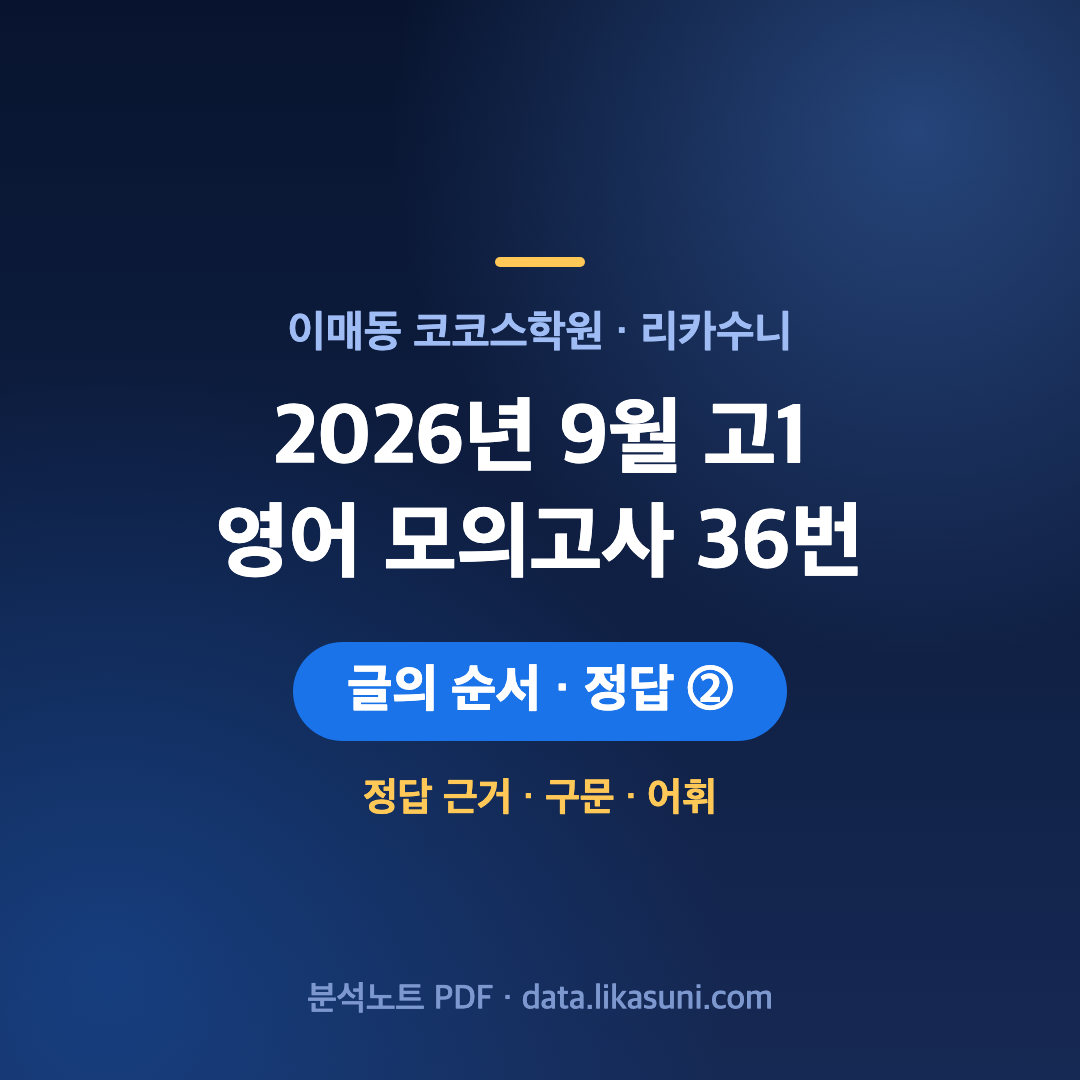
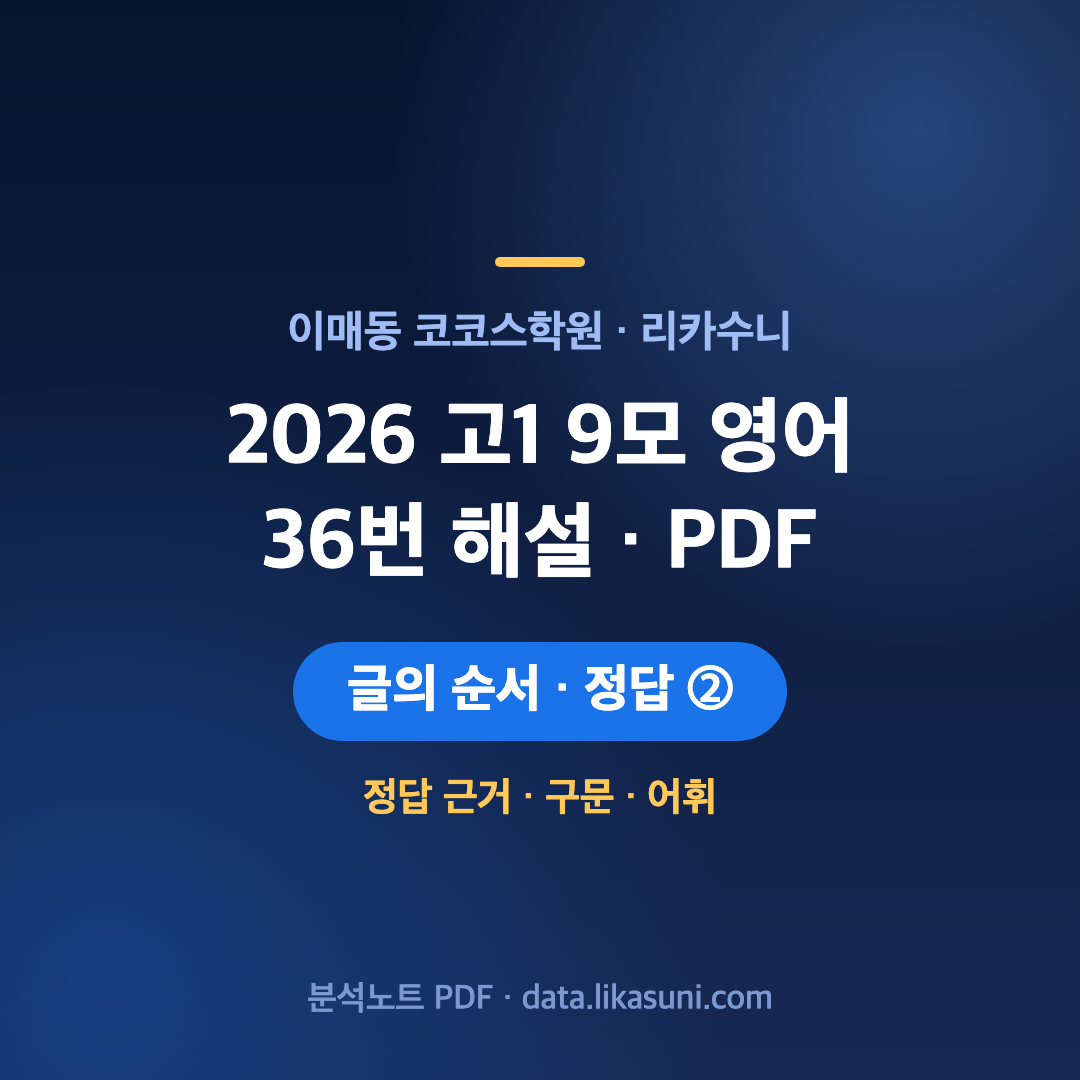
네이버 글 제목·구성: 유입 검색어(2026 고1 9모 영어 N번 해설 pdf) 꼴로, 9월 고1 36·38번 글 고침

Changed region(s): [[0.1833, 0.3667, 0.7944, 0.55]]

diff --git a/_tools/naver_posts/2026-11-22-moe-g1-2026-09-36.html b/_tools/naver_posts/2026-11-22-moe-g1-2026-09-36.html
@@ -1,12 +1,14 @@
-<!doctype html><html lang="ko"><head><meta charset="utf-8"><title>2026년 9월 고1 영어 모의고사 36번 해설 – 글의 순서 정답 ② 근거·구문·어휘 정리</title>
+<!doctype html><html lang="ko"><head><meta charset="utf-8"><title>2026 고1 9모 영어 36번 해설 pdf – 2026년 9월 고1 영어 모의고사 글의 순서 정답 ②</title>
 <style>body{font-family:'Apple SD Gothic Neo',sans-serif;max-width:720px;margin:30px auto;padding:0 16px;font-size:16px;color:#222}
 .guide{background:#fff8e1;border:1px solid #f0c36d;padding:12px 14px;border-radius:8px;font-size:14px;margin-bottom:20px}</style></head><body>
 <div class="guide">📋 <b>네이버 붙여 넣기:</b> 아래 노란 상자 밑부터 끝까지 마우스로 드래그해 복사(⌘C) → 네이버 글쓰기 본문에 붙여 넣기(⌘V).<br>
-제목: <b>2026년 9월 고1 영어 모의고사 36번 해설 – 글의 순서 정답 ② 근거·구문·어휘 정리</b><br>태그: #2026년9월고1모의고사 #9월고1영어 #고1영어모의고사 #모의고사36번 #글의순서 #영어분석노트 #이매동영어학원 #코코스학원 #리카수니</div>
+제목: <b>2026 고1 9모 영어 36번 해설 pdf – 2026년 9월 고1 영어 모의고사 글의 순서 정답 ②</b><br>태그: #2026고19모영어 #고19모영어 #9모영어pdf #2026고19모영어해설 #2026년9월고1모의고사 #9월고1영어 #고1영어모의고사36번 #모의고사36번 #글의순서 #notAbutB #영어분석노트 #이매동영어학원 #코코스학원 #리카수니</div>
 <p style="text-align:center"><img src="thumb-moe-g1-2026-09-36.png" style="max-width:100%;border-radius:12px"></p>
+<p style="margin:4px 0;line-height:1.8">2026 고1 9모 영어 36번 문제 해설이에요. (2026년 9월 고1 전국연합학력평가 영어 · 글의 순서 · 정답 ②)</p>
+<p style="margin:4px 0;line-height:1.8">정답 근거, 오답 거르는 법, 구문(not A but B · It is ~ that 강조), 어휘를 정리했고 분석노트 pdf 받는 곳은 글 아래에 있어요.</p>
+<p>&nbsp;</p>
 <p style="margin:4px 0;line-height:1.8">안녕하세요, 이매동 코코스학원 리카수니 원장입니다.</p>
-<p style="margin:4px 0;line-height:1.8">학생 요청으로 2026년 9월 고1 영어 모의고사 36번 분석노트를 만들었어요.</p>
-<p style="margin:4px 0;line-height:1.8">시험지를 옆에 펴 놓고 보시면 더 잘 보여요.</p>
+<p style="margin:4px 0;line-height:1.8">학생 요청으로 만든 분석노트를 바탕으로 정리했어요. 시험지를 옆에 펴 놓고 보시면 더 잘 보여요.</p>
 <p>&nbsp;</p>
 <h3 style="color:#1e3a8a;font-size:19px;margin:22px 0 8px;border-left:5px solid #FFC857;padding-left:10px">문제 정보</h3>
 <p style="margin:4px 0;line-height:1.8">· 시험: 2026년 9월 고1 전국연합학력평가 영어</p>
@@ -31,7 +33,7 @@
 <p>&nbsp;</p>
 <p style="text-align:center"><img src="moe-g1-2026-09-36.jpg" style="max-width:100%;border:1px solid #ddd;border-radius:8px"></p>
 <p>&nbsp;</p>
-<h3 style="color:#1e3a8a;font-size:19px;margin:22px 0 8px;border-left:5px solid #FFC857;padding-left:10px">구문 포인트</h3>
+<h3 style="color:#1e3a8a;font-size:19px;margin:22px 0 8px;border-left:5px solid #FFC857;padding-left:10px">구문 포인트 – not A but B · It is ~ that 강조</h3>
 <p style="margin:4px 0;line-height:1.8">1) not A but B (A가 아니라 B)</p>
 <p style="margin:4px 0;line-height:1.8">   → are not numbers, but patterns, structures, symmetries and connections</p>
 <p style="margin:4px 0;line-height:1.8">2) 보어 to부정사 / 분사구문 / while + -ing</p>
@@ -61,12 +63,17 @@
 <h3 style="color:#1e3a8a;font-size:19px;margin:22px 0 8px;border-left:5px solid #FFC857;padding-left:10px">서술형 대비</h3>
 <p style="margin:4px 0;line-height:1.8">분석노트에 &#x27;서술형 대비 한 문장&#x27;(It&#x27;s the pattern that matters. 중요한 것은 바로 패턴이다)과 영어 핵심 요약(Core Summary), 스도쿠 그림 설명을 함께 정리해 두었어요.</p>
 <p>&nbsp;</p>
-<h3 style="color:#1e3a8a;font-size:19px;margin:22px 0 8px;border-left:5px solid #FFC857;padding-left:10px">분석노트 PDF 받는 법</h3>
+<h3 style="color:#1e3a8a;font-size:19px;margin:22px 0 8px;border-left:5px solid #FFC857;padding-left:10px">2026 고1 9모 영어 분석노트 pdf 받는 법</h3>
 <p style="margin:4px 0;line-height:1.8">자료실 회차 페이지에서 카카오 로그인 후 번호를 고르면 카톡으로 PDF 를 받을 수 있어요.</p>
 <p style="margin:4px 0;line-height:1.8">같은 회차 다른 번호도 요청할 수 있어요.</p>
 <p>&nbsp;</p>
-<p style="font-weight:bold;color:#1a73e8">▶ 2026년 9월 고1 영어 자료 보기</p>
+<p style="font-weight:bold;color:#1a73e8">▶ 2026 고1 9모 영어 분석노트·변형문제·단어 pdf</p>
 <p style="margin:4px 0;line-height:1.8"><a href="https://data.likasuni.com/moe/go1/2026-09/eng/">https://data.likasuni.com/moe/go1/2026-09/eng/</a></p>
+<p>&nbsp;</p>
+<h3 style="color:#1e3a8a;font-size:19px;margin:22px 0 8px;border-left:5px solid #FFC857;padding-left:10px">2026 고1 9모 문제지·정답 pdf (전과목)</h3>
+<p style="margin:4px 0;line-height:1.8">영어 문제지·정답표와 듣기, 국어·수학·탐구 시험지와 등급컷도 회차 페이지에 모아 두었어요.</p>
+<p style="font-weight:bold;color:#1a73e8">▶ 2026년 9월 고1 모의고사 전과목 문제·정답 pdf</p>
+<p style="margin:4px 0;line-height:1.8"><a href="https://data.likasuni.com/moe/go1/2026-09/">https://data.likasuni.com/moe/go1/2026-09/</a></p>
 <p>&nbsp;</p>
 <hr style="border:0;border-top:1px solid #ccd">
 <h3 style="color:#1e3a8a;font-size:19px;margin:22px 0 8px;border-left:5px solid #FFC857;padding-left:10px">코코스학원 안내</h3>

diff --git a/_tools/naver_posts/2026-11-22-moe-g1-2026-09-38.html b/_tools/naver_posts/2026-11-22-moe-g1-2026-09-38.html
@@ -1,12 +1,14 @@
-<!doctype html><html lang="ko"><head><meta charset="utf-8"><title>2026년 9월 고1 영어 모의고사 38번 해설 – 문장 삽입 정답 ⑤ 근거·구문·어휘 정리</title>
+<!doctype html><html lang="ko"><head><meta charset="utf-8"><title>2026 고1 9모 영어 38번 해설 pdf – 2026년 9월 고1 영어 모의고사 문장 삽입 정답 ⑤</title>
 <style>body{font-family:'Apple SD Gothic Neo',sans-serif;max-width:720px;margin:30px auto;padding:0 16px;font-size:16px;color:#222}
 .guide{background:#fff8e1;border:1px solid #f0c36d;padding:12px 14px;border-radius:8px;font-size:14px;margin-bottom:20px}</style></head><body>
 <div class="guide">📋 <b>네이버 붙여 넣기:</b> 아래 노란 상자 밑부터 끝까지 마우스로 드래그해 복사(⌘C) → 네이버 글쓰기 본문에 붙여 넣기(⌘V).<br>
-제목: <b>2026년 9월 고1 영어 모의고사 38번 해설 – 문장 삽입 정답 ⑤ 근거·구문·어휘 정리</b><br>태그: #2026년9월고1모의고사 #9월고1영어 #고1영어모의고사 #모의고사38번 #문장삽입 #영어분석노트 #이매동영어학원 #코코스학원 #리카수니</div>
+제목: <b>2026 고1 9모 영어 38번 해설 pdf – 2026년 9월 고1 영어 모의고사 문장 삽입 정답 ⑤</b><br>태그: #2026고19모영어 #고19모영어 #9모영어pdf #2026고19모영어해설 #2026년9월고1모의고사 #9월고1영어 #고1영어모의고사38번 #모의고사38번 #문장삽입 #nomoreAthanB #영어분석노트 #이매동영어학원 #코코스학원 #리카수니</div>
 <p style="text-align:center"><img src="thumb-moe-g1-2026-09-38.png" style="max-width:100%;border-radius:12px"></p>
+<p style="margin:4px 0;line-height:1.8">2026 고1 9모 영어 38번 문제 해설이에요. (2026년 9월 고1 전국연합학력평가 영어 · 문장 삽입 · 정답 ⑤)</p>
+<p style="margin:4px 0;line-height:1.8">정답 근거, 오답 거르는 법, 구문(no more A than B · as 도치), 어휘를 정리했고 분석노트 pdf 받는 곳은 글 아래에 있어요.</p>
+<p>&nbsp;</p>
 <p style="margin:4px 0;line-height:1.8">안녕하세요, 이매동 코코스학원 리카수니 원장입니다.</p>
-<p style="margin:4px 0;line-height:1.8">학생 요청으로 2026년 9월 고1 영어 모의고사 38번 분석노트를 만들었어요.</p>
-<p style="margin:4px 0;line-height:1.8">시험지를 옆에 펴 놓고 보시면 더 잘 보여요.</p>
+<p style="margin:4px 0;line-height:1.8">학생 요청으로 만든 분석노트를 바탕으로 정리했어요. 시험지를 옆에 펴 놓고 보시면 더 잘 보여요.</p>
 <p>&nbsp;</p>
 <h3 style="color:#1e3a8a;font-size:19px;margin:22px 0 8px;border-left:5px solid #FFC857;padding-left:10px">문제 정보</h3>
 <p style="margin:4px 0;line-height:1.8">· 시험: 2026년 9월 고1 전국연합학력평가 영어</p>
@@ -35,7 +37,7 @@
 <p>&nbsp;</p>
 <p style="text-align:center"><img src="moe-g1-2026-09-38.jpg" style="max-width:100%;border:1px solid #ddd;border-radius:8px"></p>
 <p>&nbsp;</p>
-<h3 style="color:#1e3a8a;font-size:19px;margin:22px 0 8px;border-left:5px solid #FFC857;padding-left:10px">구문 포인트</h3>
+<h3 style="color:#1e3a8a;font-size:19px;margin:22px 0 8px;border-left:5px solid #FFC857;padding-left:10px">구문 포인트 – no more A than B · as 도치</h3>
 <p style="margin:4px 0;line-height:1.8">1) 목적의 to부정사</p>
 <p style="margin:4px 0;line-height:1.8">   → To harness the full potential of units of measurement, we need ~</p>
 <p style="margin:4px 0;line-height:1.8">2) 양보·이유의 as 도치 / 분사구문 based on</p>
@@ -64,12 +66,17 @@
 <h3 style="color:#1e3a8a;font-size:19px;margin:22px 0 8px;border-left:5px solid #FFC857;padding-left:10px">서술형 대비</h3>
 <p style="margin:4px 0;line-height:1.8">분석노트에 &#x27;서술형 대비 한 문장&#x27;(주어진 문장)과 as 도치 구문(Rich as they are, ~ = Though they are rich, ~) 정리, 영어 핵심 요약(Core Summary)을 해석과 함께 넣어 두었어요.</p>
 <p>&nbsp;</p>
-<h3 style="color:#1e3a8a;font-size:19px;margin:22px 0 8px;border-left:5px solid #FFC857;padding-left:10px">분석노트 PDF 받는 법</h3>
+<h3 style="color:#1e3a8a;font-size:19px;margin:22px 0 8px;border-left:5px solid #FFC857;padding-left:10px">2026 고1 9모 영어 분석노트 pdf 받는 법</h3>
 <p style="margin:4px 0;line-height:1.8">자료실 회차 페이지에서 카카오 로그인 후 번호를 고르면 카톡으로 PDF 를 받을 수 있어요.</p>
 <p style="margin:4px 0;line-height:1.8">같은 회차 다른 번호도 요청할 수 있어요.</p>
 <p>&nbsp;</p>
-<p style="font-weight:bold;color:#1a73e8">▶ 2026년 9월 고1 영어 자료 보기</p>
+<p style="font-weight:bold;color:#1a73e8">▶ 2026 고1 9모 영어 분석노트·변형문제·단어 pdf</p>
 <p style="margin:4px 0;line-height:1.8"><a href="https://data.likasuni.com/moe/go1/2026-09/eng/">https://data.likasuni.com/moe/go1/2026-09/eng/</a></p>
+<p>&nbsp;</p>
+<h3 style="color:#1e3a8a;font-size:19px;margin:22px 0 8px;border-left:5px solid #FFC857;padding-left:10px">2026 고1 9모 문제지·정답 pdf (전과목)</h3>
+<p style="margin:4px 0;line-height:1.8">영어 문제지·정답표와 듣기, 국어·수학·탐구 시험지와 등급컷도 회차 페이지에 모아 두었어요.</p>
+<p style="font-weight:bold;color:#1a73e8">▶ 2026년 9월 고1 모의고사 전과목 문제·정답 pdf</p>
+<p style="margin:4px 0;line-height:1.8"><a href="https://data.likasuni.com/moe/go1/2026-09/">https://data.likasuni.com/moe/go1/2026-09/</a></p>
 <p>&nbsp;</p>
 <hr style="border:0;border-top:1px solid #ccd">
 <h3 style="color:#1e3a8a;font-size:19px;margin:22px 0 8px;border-left:5px solid #FFC857;padding-left:10px">코코스학원 안내</h3>

diff --git a/CLAUDE.md b/CLAUDE.md
@@ -98,7 +98,7 @@
 - 웹 푸시 구조: 사이트 `push.js`(🔔 버튼, `.push-btn`) + `sw.js` + `manifest.webmanifest`, 서버 `_tools/functions/push` (구독은 `push_subs`, VAPID 키는 `private_config` 의 vapid_public·vapid_private, 비밀키는 밖으로 꺼내지 않아요).
 - 아이폰은 사파리 '홈 화면에 추가' 후 그 아이콘으로 열어야 알림을 켤 수 있어요 (iOS 16.4 이상).
 - 알림은 너무 자주 보내지 않아요 (하루 1~2번 정도). 학생이 알림을 끄면 효과가 사라져요.
-5. **네이버 블로그 글** (2026-11-16 원장님 확정, 방문자 늘리기): "완료" 처리 때마다 그 자료로 네이버 블로그(blog.naver.com/cubuk)용 글을 같이 만들어 드려요 (원장님이 직접 붙여 넣음, 네이버는 자동 발행 통로 없음). 폴더 `_tools/naver_posts/`: `<날짜>-<자료>.txt`(제목·태그·본문) + 같은 이름 `.html`(브라우저에서 열어 드래그 복사 → 네이버 본문 붙여 넣기용, 맨 위 노란 상자에 제목·태그) + 대표 사진 `thumb-<자료>.png`(1080 정사각형 남색) — txt 를 쓴 뒤 `python3 _tools/naver_post.py <txt> "<썸네일 두 줄, <br>>" "<배지>"` 가 html·썸네일을 만들어요 + 분석노트 미리보기(`note_preview.py` 결과 `notes/pv/…jpg` 복사 — 사이트 [미리보기] 버튼도 함께 생기니 빌드·배포). 분석노트 PDF 첫 쪽을 그림으로 읽어 내용 작성. 구성: 문제 정보·정답 → 한 줄 요약 → 정답 근거 → 오답 거르는 법 → 구문 포인트 → 어휘 → 서술형 대비 → 받는 법(자료실 회차 페이지 또는 `/notes/#note-req` 링크) → 코코스학원 안내(홈페이지·주소). 제목은 `2026년 9월 고2 영어 모의고사 24번 해설 – 제목 추론 정답 ② 근거·어휘 정리` 형식. **부교재(EBS)는 지문·선택지 원문을 싣지 않고** 구문 인용 1개만, 출처 표시. 쿠팡 링크 없음. 끝나면 제목을 코드 블록으로 따로 알려 드려요.
+5. **네이버 블로그 글** (2026-11-16 원장님 확정, 방문자 늘리기): "완료" 처리 때마다 그 자료로 네이버 블로그(blog.naver.com/cubuk)용 글을 같이 만들어 드려요 (원장님이 직접 붙여 넣음, 네이버는 자동 발행 통로 없음). 폴더 `_tools/naver_posts/`: `<날짜>-<자료>.txt`(제목·태그·본문) + 같은 이름 `.html`(브라우저에서 열어 드래그 복사 → 네이버 본문 붙여 넣기용, 맨 위 노란 상자에 제목·태그) + 대표 사진 `thumb-<자료>.png`(1080 정사각형 남색) — txt 를 쓴 뒤 `python3 _tools/naver_post.py <txt> "<썸네일 두 줄, <br>>" "<배지>"` 가 html·썸네일을 만들어요 + 분석노트 미리보기(`note_preview.py` 결과 `notes/pv/…jpg` 복사 — 사이트 [미리보기] 버튼도 함께 생기니 빌드·배포). 분석노트 PDF 첫 쪽을 그림으로 읽어 내용 작성. 구성: 문제 정보·정답 → 한 줄 요약 → 정답 근거 → 오답 거르는 법 → 구문 포인트 → 어휘 → 서술형 대비 → 받는 법(자료실 회차 페이지 또는 `/notes/#note-req` 링크) → 코코스학원 안내(홈페이지·주소). **제목·구성 (2026-11-22 원장님 확정, 네이버 유입 검색어 분석)**: 사람들이 치는 말 그대로 앞에 → 제목 `2026 고1 9모 영어 36번 해설 pdf – 2026년 9월 고1 영어 모의고사 글의 순서 정답 ②` (앞: `연도 학년 N모 영어 N번 해설 pdf`, 뒤: 정식 이름 + 유형·정답). 본문 첫 두 줄(검색 미리보기)에 같은 검색어 + 유형·정답·구문 이름, 그다음 인사. 구문 제목에 문법 이름(예: `■ 구문 포인트 – not A but B`, 'be used to' 같은 문법 검색 유입이 있음), 받는 법 제목에 '2026 고1 9모 영어 분석노트 pdf', 끝에 '■ 2026 고1 9모 문제지·정답 pdf (전과목)' + 회차 기출 페이지(`/moe/go1/2026-09/`) 링크. 태그는 붙여 쓴 검색어(#2026고19모영어 #고19모영어 #9모영어pdf …). 썸네일 위 두 줄은 `2026 고1 9모 영어<br>36번 해설 · PDF`. 수능은 '2027 수능 영어'와 '2026 수능 영어'를 둘 다 넣어요. **부교재(EBS)는 지문·선택지 원문을 싣지 않고** 구문 인용 1개만, 출처 표시. 쿠팡 링크 없음. 끝나면 제목을 코드 블록으로 따로 알려 드려요.
 
 ## 진행 방식
 
